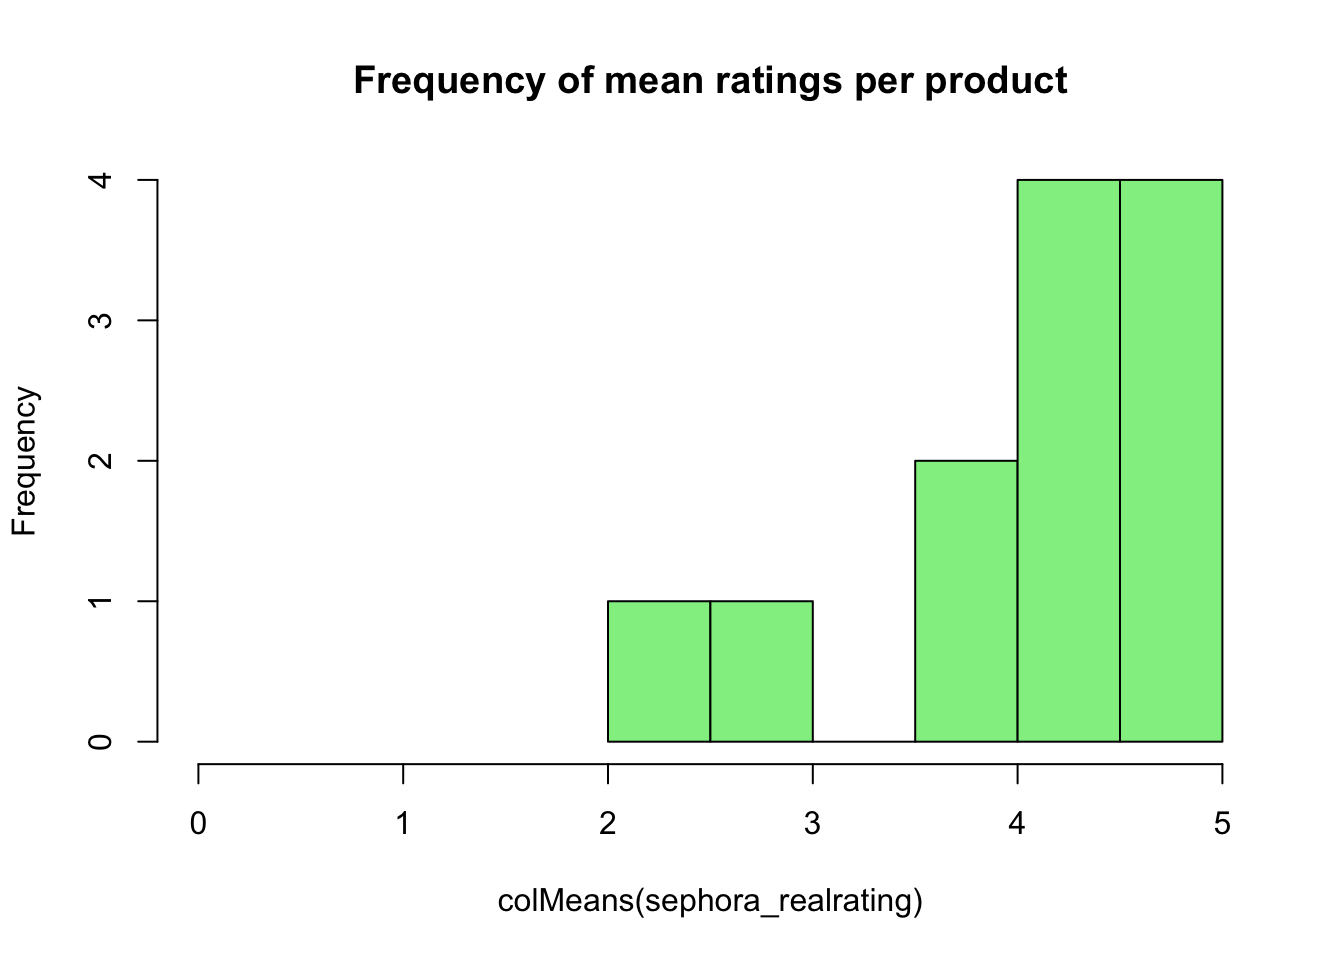
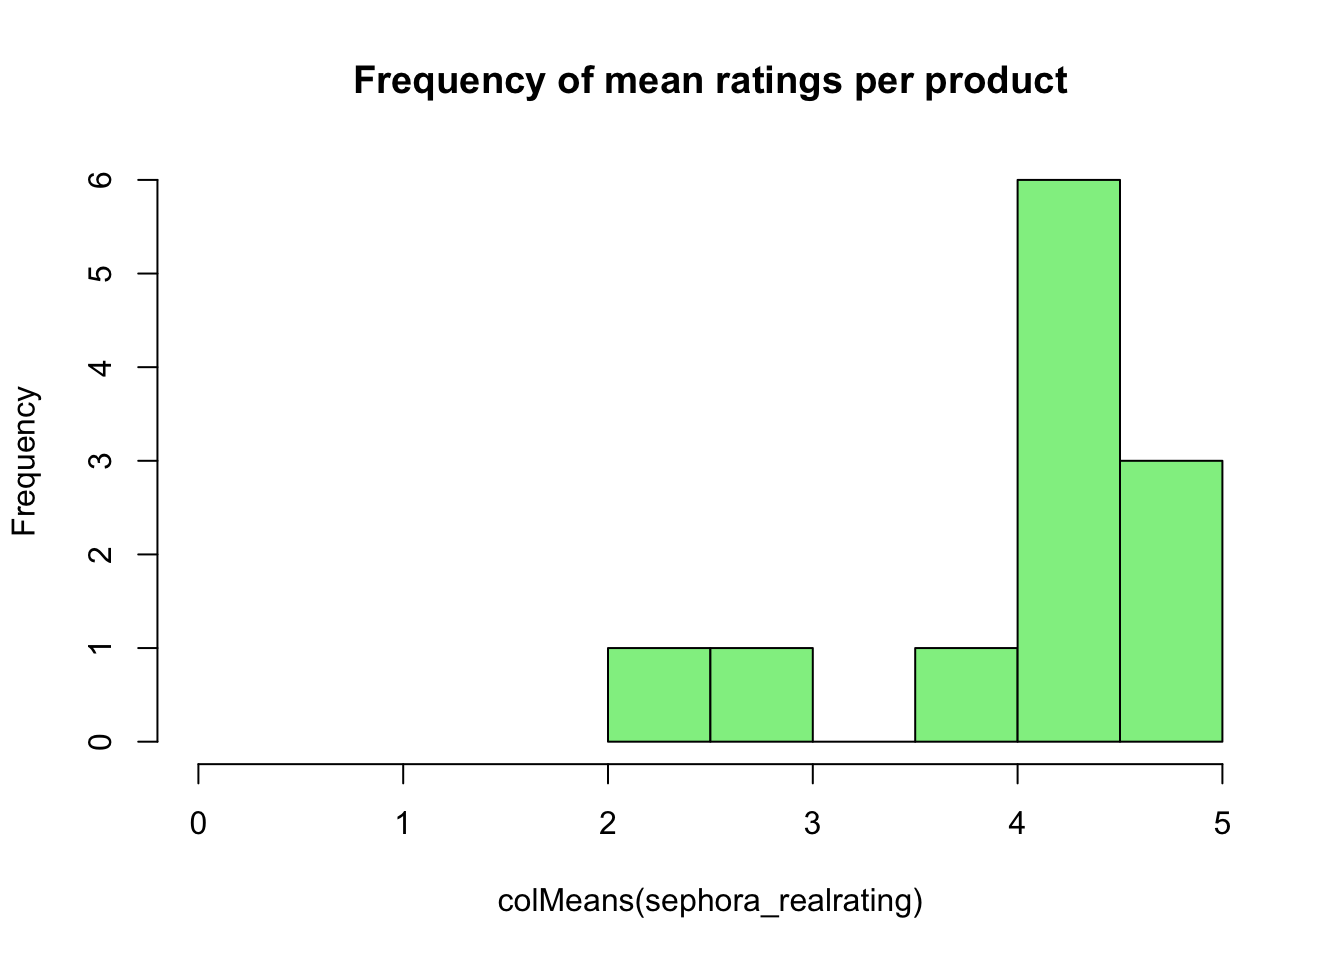
Readded Spark

diff --git a/index.html b/index.html
@@ -206,6 +206,9 @@ $(document).ready(function () {
     <li>
       <a href="Muhammad Furqan.html">Attrition Prediction</a>
     </li>
+    <li>
+      <a href="Lab10-Asignment2-Muhammad-Furqan.html">Spark - Marketing Department's Data</a>
+    </li>
   </ul>
 </li>
       </ul>
@@ -981,7 +984,7 @@ skin_type_oily
 <tbody>
 <tr>
 <td style="text-align:right;">
-46
+3
 </td>
 <td style="text-align:left;">
 P38217
@@ -1007,7 +1010,7 @@ P38217
 </tr>
 <tr>
 <td style="text-align:right;">
-98
+29
 </td>
 <td style="text-align:left;">
 P38217
@@ -1033,7 +1036,7 @@ P38217
 </tr>
 <tr>
 <td style="text-align:right;">
-65
+7
 </td>
 <td style="text-align:left;">
 P38217
@@ -1059,7 +1062,7 @@ P38217
 </tr>
 <tr>
 <td style="text-align:right;">
-62
+5
 </td>
 <td style="text-align:left;">
 P38217
@@ -1085,7 +1088,7 @@ P38217
 </tr>
 <tr>
 <td style="text-align:right;">
-93
+73
 </td>
 <td style="text-align:left;">
 P38217
@@ -1111,7 +1114,7 @@ P38217
 </tr>
 <tr>
 <td style="text-align:right;">
-98
+26
 </td>
 <td style="text-align:left;">
 P38217
@@ -1144,11 +1147,11 @@ P38217
 <p>The matrix shows users in rows and products in columns. A numeric value corresponding to a particular user and product implies how the product was rated by a particular user. For example, <strong>user 1</strong> gave a rating of <strong>4</strong> to <strong>product P38217</strong>.</p>
 <pre><code>## 5 x 5 sparse Matrix of class &quot;dgCMatrix&quot;
 ##     P38217 P382204 P382292 P382353 P382354
-## 1        4       5       3       .       5
-## 10       .       5       .       .       5
-## 100      4       5       .       5       5
-## 11       5       5       5       5       4
-## 13       .       5       .       5       5</code></pre>
+## 1        5       4       .       .       5
+## 10       3       2       5       5       5
+## 100      .       5       .       .       5
+## 11       .       .       5       .       .
+## 13       .       .       .       .       5</code></pre>
 </div>
 <div id="number-of-ratings-per-user-with-fake-data" class="section level1">
 <h1>Number of Ratings per User with Fake Data</h1>
@@ -1234,22 +1237,22 @@ applyMyAlgorithm &lt;- function(data) {
 <pre class="r"><code>trainMyAlgorithm(train, sephora_reviews_edited, skin=&quot;skin_type_oily&quot;)
 
 head(applyMyAlgorithm(known))</code></pre>
-<pre><code>## $`13`
-## [1] &quot;P38217&quot; &quot;P38217&quot;
+<pre><code>## $`1`
+## [1] &quot;P382355&quot; &quot;P382355&quot;
 ## 
 ## $`14`
+## [1] &quot;P382355&quot; &quot;P382355&quot;
+## 
+## $`17`
 ## [1] &quot;P38217&quot; &quot;P38217&quot;
 ## 
-## $`19`
+## $`18`
 ## [1] &quot;P38217&quot; &quot;P38217&quot;
 ## 
-## $`21`
-## [1] &quot;P38217&quot; &quot;P38217&quot;
+## $`20`
+## [1] &quot;P382355&quot; &quot;P382355&quot;
 ## 
-## $`22`
-## [1] &quot;P38217&quot; &quot;P38217&quot;
-## 
-## $`25`
+## $`27`
 ## [1] &quot;P38217&quot; &quot;P38217&quot;</code></pre>
 </div>
 <div id="second-recommendation-system" class="section level1">
@@ -1275,22 +1278,22 @@ applyMyAlgorithm &lt;- function(data) {
 <pre class="r"><code>trainMyAlgorithm(train, sephora_reviews_edited, skin=&quot;skin_type_combination&quot;)
 
 head(applyMyAlgorithm(known))</code></pre>
-<pre><code>## $`13`
+<pre><code>## $`1`
 ## [1] &quot;P384342&quot;
 ## 
 ## $`14`
+## [1] &quot;P382292&quot; &quot;P382292&quot;
+## 
+## $`17`
 ## character(0)
 ## 
-## $`19`
-## [1] &quot;P384342&quot;
-## 
-## $`21`
-## [1] &quot;P384342&quot;
-## 
-## $`22`
+## $`18`
 ## character(0)
 ## 
-## $`25`
+## $`20`
+## [1] &quot;P384342&quot;
+## 
+## $`27`
 ## character(0)</code></pre>
 </div>
 <div id="feedback-loop" class="section level1">
